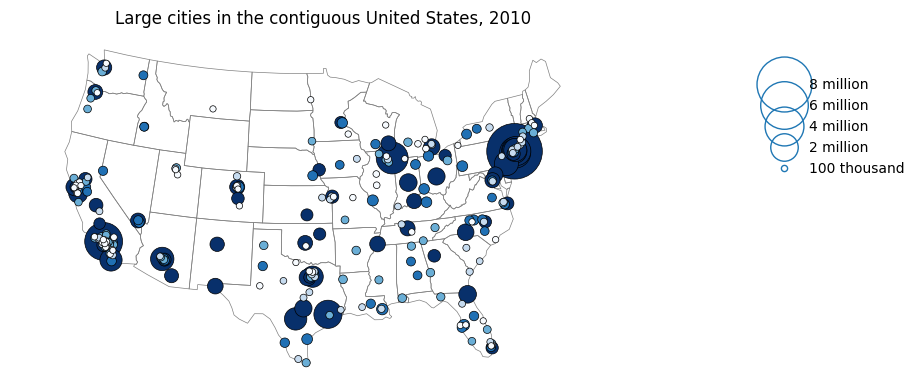
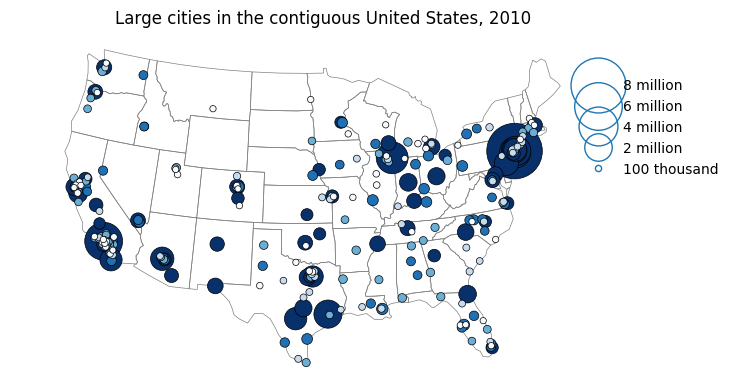
Correct example.

diff --git a/docs/examples/largest-cities-usa.py b/docs/examples/largest-cities-usa.py
@@ -13,15 +13,11 @@ import matplotlib.pyplot as plt
 
 poly_kwargs = {'linewidth': 0.5, 'edgecolor': 'gray', 'zorder': -1}
 point_kwargs = {'linewidth': 0.5, 'edgecolor': 'black', 'alpha': 1}
-legend_kwargs = {'bbox_to_anchor': (1.2, 0.9), 'frameon': False}
+legend_kwargs = {'bbox_to_anchor': (0.9, 0.9), 'frameon': False}
 
 ax = gplt.polyplot(continental_usa,
                    projection=gcrs.AlbersEqualArea(central_longitude=-98, central_latitude=39.5),
                    **poly_kwargs)
-
-# Unfortunately the plot comes out with a bit of Florida clipped off, which we have to correct by hand. The exact
-# values needed were found by using ax.get_ylim() and then poking around a bit.
-ax.set_ylim((-1597757.3894385984, 1457718.4893930717))
 
 gplt.pointplot(continental_cities, projection=gcrs.AlbersEqualArea(), ax=ax,
                scale='POP_2010', limits=(1, 80),
